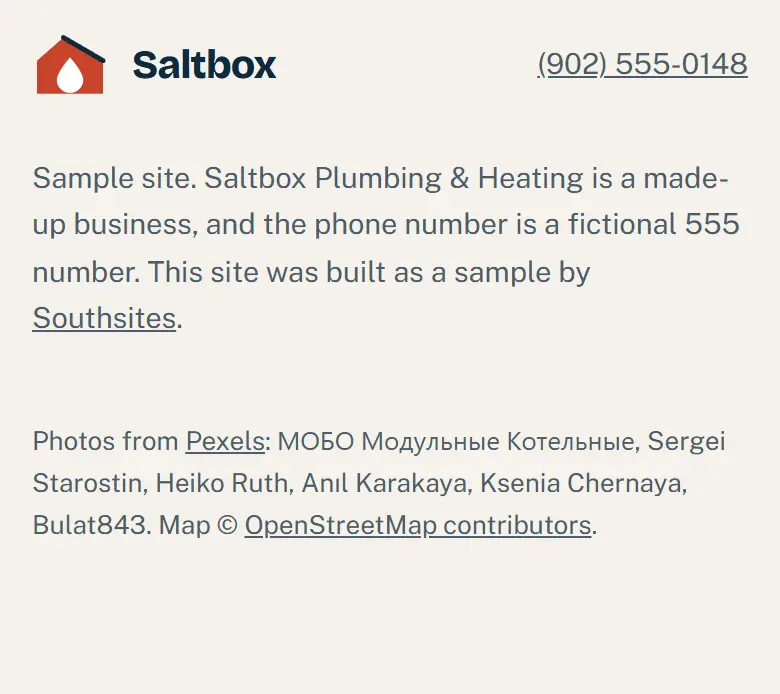
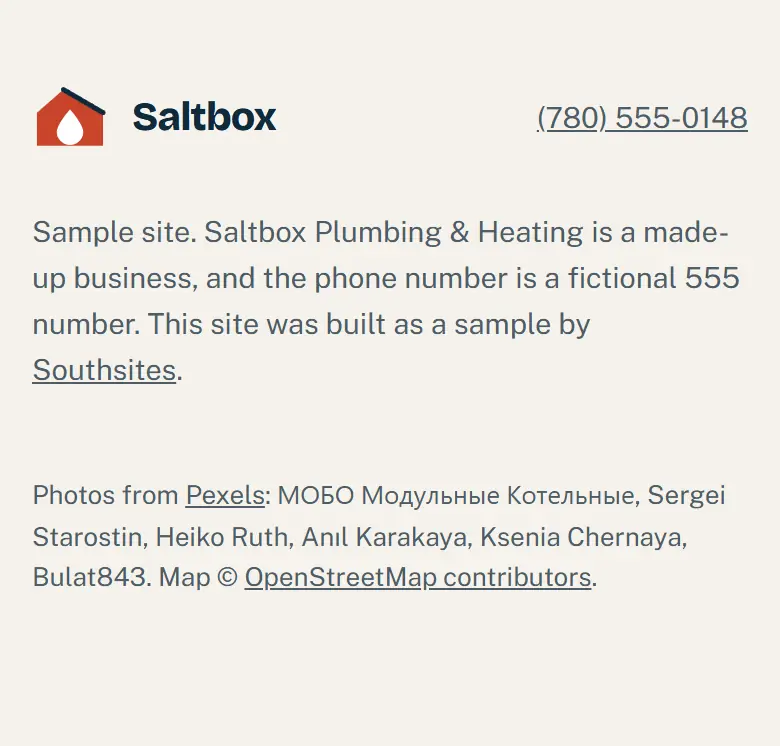
samples move to Edmonton: Saltbox Plumbing & Heating in Mill Woods (south Edmonton service areas, Edmonton map), Forno Lume on Whyte Ave in Old Strathcona, Mirrorline Detail Co. in Sherwood Park (road salt and the Henday, heated bays); fictional (780) 555 numbers; phone stills re-shot; the landing c

diff --git a/demos/saltbox-plumbing/index.html b/demos/saltbox-plumbing/index.html
@@ -3,8 +3,8 @@
 <head>
 <meta charset="utf-8">
 <meta name="viewport" content="width=device-width, initial-scale=1">
-<title>Saltbox Plumbing & Heating | Halifax plumbers (sample site by Southsites)</title>
-<meta name="description" content="Sample website by Southsites. Saltbox Plumbing & Heating is a made-up Halifax plumbing and heating company.">
+<title>Saltbox Plumbing & Heating | Edmonton plumbers (sample site by Southsites)</title>
+<meta name="description" content="Sample website by Southsites. Saltbox Plumbing & Heating is a made-up Edmonton plumbing and heating company.">
 <meta name="robots" content="noindex">
 <link rel="preconnect" href="https://fonts.googleapis.com">
 <link rel="preconnect" href="https://fonts.gstatic.com" crossorigin>
@@ -174,7 +174,7 @@
     </a>
     <nav class="links" aria-label="Main">
       <a href="#services">Services</a><a href="#areas">Areas</a><a href="#about">About</a>
-      <a class="btn btn-red" href="tel:+19025550148"><svg viewBox="0 0 24 24" fill="none" stroke="currentColor" stroke-width="2" stroke-linecap="round" stroke-linejoin="round" aria-hidden="true"><path d="M5 4h4l2 5-2.5 1.5a11 11 0 0 0 5 5L15 13l5 2v4a2 2 0 0 1-2 2A16 16 0 0 1 3 6a2 2 0 0 1 2-2"/></svg><span>(902) 555-0148</span></a>
+      <a class="btn btn-red" href="tel:+17805550148"><svg viewBox="0 0 24 24" fill="none" stroke="currentColor" stroke-width="2" stroke-linecap="round" stroke-linejoin="round" aria-hidden="true"><path d="M5 4h4l2 5-2.5 1.5a11 11 0 0 0 5 5L15 13l5 2v4a2 2 0 0 1-2 2A16 16 0 0 1 3 6a2 2 0 0 1 2-2"/></svg><span>(780) 555-0148</span></a>
     </nav>
   </div>
 </header>
@@ -183,9 +183,9 @@
 <section class="hero">
   <div class="wrap">
     <div>
-      <h1>Plumbing and heating for Halifax homes.</h1>
+      <h1>Plumbing and heating for Edmonton homes.</h1>
       <p class="lead">Leaks, no heat, no hot water. A plumber answers the phone, gives you a price before any work starts, and cleans up after.</p>
-      <div class="ctas"><a class="btn btn-red" href="tel:+19025550148">Call (902) 555-0148</a><a class="btn btn-line" href="#book">Book a visit</a></div>
+      <div class="ctas"><a class="btn btn-red" href="tel:+17805550148">Call (780) 555-0148</a><a class="btn btn-line" href="#book">Book a visit</a></div>
       <p class="open"><i aria-hidden="true"></i>Weekdays 7 am to 6 pm. Emergency line every night.</p>
     </div>
     <figure class="shot" style="margin:0"><img src="img/hero.webp" width="1800" height="1350" alt="A technician fitting the controls on a new wall-mounted boiler" fetchpriority="high"><figcaption>Boilers, furnaces and water heaters</figcaption></figure>
@@ -197,7 +197,7 @@
     <div>
       <h2 id="u-h">Water coming through the ceiling?</h2>
       <p>Do these three things first. They take two minutes and can save the floor.</p>
-      <a class="btn btn-red" href="tel:+19025550148">Call the emergency line</a>
+      <a class="btn btn-red" href="tel:+17805550148">Call the emergency line</a>
     </div>
     <ol>
       <li><div><b>Shut off the main valve</b><span>Usually where the water line comes through the basement wall, near the meter. Turn it clockwise until it stops.</span></div></li>
@@ -209,10 +209,10 @@
 
 <section class="block" id="services">
   <div class="wrap">
-    <div class="head"><h2>What we fix and install</h2><p>Older Halifax houses, new builds and everything between. Hot-water heat, forced air and heat pumps.</p></div>
+    <div class="head"><h2>What we fix and install</h2><p>Mill Woods bungalows, new builds and everything between. Forced air, boilers and in-floor heat.</p></div>
     <div class="services">
       <article class="svc"><img src="img/leak.webp" width="900" height="600" alt="Gloved hands tightening a pipe fitting" loading="lazy"><div><h3>Leaks and burst pipes</h3><p>Found, fixed and dried out. Frozen pipes thawed without opening more wall than we have to.</p></div></article>
-      <article class="svc"><img src="img/furnace.webp" width="900" height="600" alt="A technician testing the circulator pump on a boiler" loading="lazy"><div><h3>Furnaces and boilers</h3><p>No heat calls, yearly tune-ups and full replacements, oil, gas or electric.</p></div></article>
+      <article class="svc"><img src="img/furnace.webp" width="900" height="600" alt="A technician testing the circulator pump on a boiler" loading="lazy"><div><h3>Furnaces and boilers</h3><p>No heat calls, yearly tune-ups and full replacements, gas or electric.</p></div></article>
       <article class="svc"><img src="img/heater.webp" width="900" height="675" alt="Copper pipes and valves under a new water heater" loading="lazy"><div><h3>Water heaters</h3><p>Tank and tankless. We'll tell you honestly if yours can be repaired.</p></div></article>
       <article class="svc wide"><img src="img/pipes.webp" width="900" height="600" alt="Hands fitting a brass valve under a kitchen floor" loading="lazy"><div><h3>Kitchen and bathroom plumbing</h3><p>Renovation rough-ins, new fixtures, shut-off valves that actually shut off. We work with your contractor or on our own, and we leave the space cleaner than we found it.</p></div></article>
       <article class="svc"><img src="img/radiator.webp" width="800" height="1198" alt="A plumber bleeding a cast iron radiator under a window" loading="lazy"><div><h3>Radiators and hot-water heat</h3><p>Cold rooms, noisy pipes, bleeding and balancing.</p></div></article>
@@ -250,11 +250,11 @@
 
 <section class="block areas" id="areas">
   <div class="wrap">
-    <div class="map"><iframe title="Map of Halifax, Dartmouth and Bedford" loading="lazy" src="https://www.openstreetmap.org/export/embed.html?bbox=-63.78%2C44.58%2C-63.46%2C44.76&amp;layer=mapnik"></iframe><button class="map-use" type="button"><span>Move the map</span></button></div>
+    <div class="map"><iframe title="Map of south Edmonton" loading="lazy" src="https://www.openstreetmap.org/export/embed.html?bbox=-113.58%2C53.40%2C-113.30%2C53.53&amp;layer=mapnik"></iframe><button class="map-use" type="button"><span>Move the map</span></button></div>
     <div>
       <h2>Where we work</h2>
-      <p>Halifax and the towns around the harbour. Not sure if you're in? Call and ask.</p>
-      <ul class="chips"><li>Halifax peninsula</li><li>Clayton Park</li><li>Fairview</li><li>Spryfield</li><li>Dartmouth</li><li>Bedford</li><li>Sackville</li></ul>
+      <p>Mill Woods and the rest of south Edmonton, plus Sherwood Park. Not sure if you're in? Call and ask.</p>
+      <ul class="chips"><li>Mill Woods</li><li>The Meadows</li><li>Summerside</li><li>Ellerslie</li><li>Terwillegar</li><li>Windermere</li><li>Sherwood Park</li></ul>
       <table class="hours" aria-label="Opening hours">
         <tr><td>Monday to Friday</td><td>7 am to 6 pm</td></tr>
         <tr><td>Saturday</td><td>8 am to 2 pm</td></tr>
@@ -270,7 +270,7 @@
     <div>
       <h2>Book a visit</h2>
       <p>Tell us what's wrong and when suits you. We'll text back with a two-hour window. Something leaking right now? Call instead.</p>
-      <a class="call" href="tel:+19025550148">(902) 555-0148</a>
+      <a class="call" href="tel:+17805550148">(780) 555-0148</a>
     </div>
     <form id="f" novalidate>
       <div class="row2"><label>Your name<input name="name" autocomplete="name" required></label><label>Phone<input name="phone" type="tel" autocomplete="tel" required></label></div>
@@ -288,7 +288,7 @@
 
 <footer>
   <div class="wrap">
-    <div class="row"><a class="logo" href="#top"><svg viewBox="0 0 46 40" aria-hidden="true"><path d="M3 18 L19 4 L43 18 V38 H3 Z" fill="#c8442b"/><path d="M19 4 L43 18" stroke="#0f2a3d" stroke-width="3" fill="none" stroke-linecap="round"/><path d="M23 16 C23 16 15 25 15 29.5 A8 8 0 0 0 31 29.5 C31 25 23 16 23 16 Z" fill="#fff"/></svg><span><b>Saltbox</b><small>Plumbing &amp; Heating, Halifax, Nova Scotia</small></span></a><a href="tel:+19025550148">(902) 555-0148</a></div>
+    <div class="row"><a class="logo" href="#top"><svg viewBox="0 0 46 40" aria-hidden="true"><path d="M3 18 L19 4 L43 18 V38 H3 Z" fill="#c8442b"/><path d="M19 4 L43 18" stroke="#0f2a3d" stroke-width="3" fill="none" stroke-linecap="round"/><path d="M23 16 C23 16 15 25 15 29.5 A8 8 0 0 0 31 29.5 C31 25 23 16 23 16 Z" fill="#fff"/></svg><span><b>Saltbox</b><small>Plumbing &amp; Heating, Edmonton, Alberta</small></span></a><a href="tel:+17805550148">(780) 555-0148</a></div>
     <p>Sample site. Saltbox Plumbing &amp; Heating is a made-up business, and the phone number is a fictional 555 number. This site was built as a sample by <a href="/">Southsites</a>.</p>
     <p class="credits">Photos from <a href="https://www.pexels.com/license/">Pexels</a>: МОБО Модульные Котельные, Sergei Starostin, Heiko Ruth, Anıl Karakaya, Ksenia Chernaya, Bulat843. Map &copy; <a href="https://www.openstreetmap.org/copyright">OpenStreetMap contributors</a>.</p>
   </div>

diff --git a/demos/mirrorline-detail/index.html b/demos/mirrorline-detail/index.html
@@ -3,8 +3,8 @@
 <head>
 <meta charset="utf-8">
 <meta name="viewport" content="width=device-width, initial-scale=1">
-<title>Mirrorline Detail Co. | Car detailing in Scottsdale (sample site by Southsites)</title>
-<meta name="description" content="Sample website by Southsites. Mirrorline Detail Co. is a made-up car detailing shop in Scottsdale, Arizona.">
+<title>Mirrorline Detail Co. | Car detailing in Sherwood Park (sample site by Southsites)</title>
+<meta name="description" content="Sample website by Southsites. Mirrorline Detail Co. is a made-up car detailing shop in Sherwood Park, Alberta.">
 <meta name="robots" content="noindex">
 <link rel="preconnect" href="https://fonts.googleapis.com">
 <link rel="preconnect" href="https://fonts.gstatic.com" crossorigin>
@@ -179,7 +179,7 @@
       </div>
     </header>
     <div class="beats">
-      <div class="beat on" data-a="0" data-b="0.16"><small>Car detailing in Scottsdale, Arizona</small><h1>Bring it in like this.</h1><p>Desert dust, monsoon mud, a month of the 101. Scroll and watch it come off.</p></div>
+      <div class="beat on" data-a="0" data-b="0.16"><small>Car detailing in Sherwood Park, Alberta</small><h1>Bring it in like this.</h1><p>Road salt, spring mud, a month of the Henday. Scroll and watch it come off.</p></div>
       <div class="beat" data-a="0.2" data-b="0.4"><small>Step one</small><h2>Foam first.</h2><p>Thick foam soaks the grit loose before a mitt ever touches the paint.</p></div>
       <div class="beat" data-a="0.44" data-b="0.8"><small>Step two</small><h2>Rinse, top down.</h2><p>Soft water and low pressure, so the dirt slides off instead of scratching on its way out.</p></div>
       <div class="beat last" data-a="0.84" data-b="1.01"><small>Mirrorline finish</small><h2>Leave like this.</h2><p>Decontaminated, polished and sealed. Water beads and rolls right off.</p><a class="btn btn-ice" href="#book">Book a detail</a></div>
@@ -196,7 +196,7 @@
       <article class="pkg"><img src="img/beads.webp" width="800" height="1200" alt="Water beading on a black car hood next to the badge" loading="lazy"><div><h3>Wash and seal</h3><p>Foam, hand wash, wheels, glass and a spray sealant.</p><span class="price"><small>from </small>$89</span></div></article>
       <article class="pkg"><img src="img/interior.webp" width="1200" height="800" alt="A detailer cleaning the inside of a red car door" loading="lazy"><div><h3>Full detail</h3><p>Inside and out: vacuum, steam, leather, plastics, then the full wash.</p><span class="price"><small>from </small>$249</span></div></article>
       <article class="pkg"><img src="img/polish.webp" width="800" height="1422" alt="A detailer polishing a car panel with a machine polisher" loading="lazy"><div><h3>Paint correction</h3><p>Swirls and light scratches polished out under inspection lights.</p><span class="price"><small>from </small>$549</span></div></article>
-      <article class="pkg"><img src="img/coat.webp" width="800" height="1202" alt="A ceramic coating being dripped onto an applicator pad" loading="lazy"><div><h3>Ceramic coating</h3><p>A hard, slick layer that keeps the shine through Arizona summers.</p><span class="price"><small>from </small>$899</span></div></article>
+      <article class="pkg"><img src="img/coat.webp" width="800" height="1202" alt="A ceramic coating being dripped onto an applicator pad" loading="lazy"><div><h3>Ceramic coating</h3><p>A hard, slick layer that keeps the shine through road salt and Alberta winters.</p><span class="price"><small>from </small>$899</span></div></article>
     </div>
     <p class="note">Sample packages and prices for this concept site.</p>
   </div>
@@ -207,7 +207,7 @@
     <img src="img/foam.webp" width="1200" height="800" alt="A detailer working a foamed sponge over a side window" loading="lazy">
     <div>
       <h2>Done by hand, start to finish</h2>
-      <p>One car at a time in a shaded bay, by the same detailer from check-in to hand-back. You get photos of the before and the after.</p>
+      <p>One car at a time in a heated bay, by the same detailer from check-in to hand-back. You get photos of the before and the after.</p>
       <ul class="ticks">
         <li><svg viewBox="0 0 24 24" fill="none" stroke="currentColor" stroke-width="2.4" stroke-linecap="round" stroke-linejoin="round" aria-hidden="true"><path d="M5 13l4 4L19 7"/></svg>Drop off by 9, most cars back by 5</li>
         <li><svg viewBox="0 0 24 24" fill="none" stroke="currentColor" stroke-width="2.4" stroke-linecap="round" stroke-linejoin="round" aria-hidden="true"><path d="M5 13l4 4L19 7"/></svg>pH-neutral soaps, safe on coatings and wraps</li>
@@ -239,7 +239,7 @@
     <div>
       <h2>Book a detail</h2>
       <p>Tell us the car and the package. We'll text you a time that works.</p>
-      <a class="call" href="tel:+14805550127">(480) 555-0127</a>
+      <a class="call" href="tel:+17805550127">(780) 555-0127</a>
     </div>
     <form id="f" novalidate>
       <div class="row2"><label>Name<input name="name" autocomplete="name"></label><label>Phone<input name="phone" type="tel" autocomplete="tel"></label></div>
@@ -256,10 +256,10 @@
 
 <section class="block find" id="find">
   <div class="wrap">
-    <div class="map"><iframe title="Map of Scottsdale, Arizona" loading="lazy" src="https://www.openstreetmap.org/export/embed.html?bbox=-111.985%2C33.45%2C-111.855%2C33.53&amp;layer=mapnik"></iframe><button class="map-use" type="button"><span>Move the map</span></button></div>
+    <div class="map"><iframe title="Map of Sherwood Park, Alberta" loading="lazy" src="https://www.openstreetmap.org/export/embed.html?bbox=-113.37%2C53.50%2C-113.25%2C53.57&amp;layer=mapnik"></iframe><button class="map-use" type="button"><span>Move the map</span></button></div>
     <div>
       <h2>Find us</h2>
-      <p>In south Scottsdale, minutes from Old Town. Shaded bays, a cold drink while you wait, and a ride to work if you need one.</p>
+      <p>In Sherwood Park, minutes off the Henday. Heated bays, a hot coffee while you wait, and a ride to work if you need one.</p>
       <table class="hours" aria-label="Opening hours">
         <tr><td>Monday to Friday</td><td>8 am to 6 pm</td></tr>
         <tr><td>Saturday</td><td>8 am to 4 pm</td></tr>
@@ -272,7 +272,7 @@
 
 <footer>
   <div class="wrap">
-    <div class="row"><a class="mark" href="#wash"><b>MIRRORLINE</b><i aria-hidden="true"></i><small>Detail Co.</small></a><span>Scottsdale, Arizona &nbsp; <a href="tel:+14805550127">(480) 555-0127</a></span></div>
+    <div class="row"><a class="mark" href="#wash"><b>MIRRORLINE</b><i aria-hidden="true"></i><small>Detail Co.</small></a><span>Sherwood Park, Alberta &nbsp; <a href="tel:+17805550127">(780) 555-0127</a></span></div>
     <p>Sample site. Mirrorline Detail Co. is a made-up business, the packages and prices are samples, and the phone number is a fictional 555 number. Built as a sample by <a href="/">Southsites</a>.</p>
     <p class="credits">The wash at the top was made with AI from a photo by Tima Miroshnichenko: Google Gemini added the dirt, Google Veo animated the rinse. Other photos from <a href="https://www.pexels.com/license/">Pexels</a>: Tima Miroshnichenko, Bulat843, WAVYVISUALS, Caio Renato de Campos, Malcolm Garret, Luis Quintero. Map &copy; <a href="https://www.openstreetmap.org/copyright">OpenStreetMap contributors</a>.</p>
   </div>

diff --git a/demos/forno-lume/index.html b/demos/forno-lume/index.html
@@ -3,8 +3,8 @@
 <head>
 <meta charset="utf-8">
 <meta name="viewport" content="width=device-width, initial-scale=1">
-<title>Forno Lume | Wood-fired pizza and fresh pasta, Providence (sample site by Southsites)</title>
-<meta name="description" content="Sample website by Southsites. Forno Lume is a made-up pizza and pasta restaurant on Federal Hill in Providence.">
+<title>Forno Lume | Wood-fired pizza and fresh pasta, Edmonton (sample site by Southsites)</title>
+<meta name="description" content="Sample website by Southsites. Forno Lume is a made-up pizza and pasta restaurant on Whyte Ave in Edmonton.">
 <meta name="robots" content="noindex">
 <link rel="preconnect" href="https://fonts.googleapis.com">
 <link rel="preconnect" href="https://fonts.gstatic.com" crossorigin>
@@ -168,7 +168,7 @@
 <section class="hero">
   <img src="img/hero.webp" width="1800" height="1202" alt="A chef dressing a pizza with olive oil before it goes in the oven" fetchpriority="high">
   <div class="wrap">
-    <h1>Wood‑fired pizza and fresh pasta on <em>Federal Hill.</em></h1>
+    <h1>Wood‑fired pizza and fresh pasta on <em>Whyte Ave.</em></h1>
     <p>The oven is lit by four. Dinner from five, Tuesday to Sunday, with a few seats at the bar kept for walk-ins.</p>
     <div class="ctas"><a class="btn btn-red" href="#reserve">Reserve a table</a><a class="btn btn-line" href="#menu">See the menu</a></div>
     <p class="tonight"><i aria-hidden="true"></i>Open tonight from 5 pm</p>
@@ -245,10 +245,10 @@
 
 <section class="block visit" id="visit">
   <div class="wrap">
-    <div class="map"><iframe title="Map of Federal Hill, Providence" loading="lazy" src="https://www.openstreetmap.org/export/embed.html?bbox=-71.4405%2C41.8135%2C-71.4105%2C41.8305&amp;layer=mapnik"></iframe><button class="map-use" type="button"><span>Move the map</span></button></div>
+    <div class="map"><iframe title="Map of Whyte Ave, Edmonton" loading="lazy" src="https://www.openstreetmap.org/export/embed.html?bbox=-113.5320%2C53.5040%2C-113.4820%2C53.5240&amp;layer=mapnik"></iframe><button class="map-use" type="button"><span>Move the map</span></button></div>
     <div>
       <h2>Visit</h2>
-      <p>On Federal Hill in Providence, a short walk from downtown. Street parking after six, and a lot two blocks up.</p>
+      <p>On Whyte Ave in Old Strathcona, across the river from downtown. Street parking after six, and a lot a block south.</p>
       <table class="hours">
         <tr><td>Tuesday to Thursday</td><td>5 pm to 10 pm</td></tr>
         <tr><td>Friday and Saturday</td><td>5 pm to 11 pm</td></tr>
@@ -265,7 +265,7 @@
     <div>
       <h2>Reserve a <em>table</em></h2>
       <p>Book up to thirty days ahead. For six or more, call us and we'll set up the long table.</p>
-      <a class="call" href="tel:+14015550163">(401) 555-0163</a>
+      <a class="call" href="tel:+17805550163">(780) 555-0163</a>
     </div>
     <form id="f" novalidate>
       <div class="row3">
@@ -283,7 +283,7 @@
 
 <footer>
   <div class="wrap">
-    <div class="row"><span class="logo" style="font-size:24px"><svg viewBox="0 0 30 30" aria-hidden="true"><circle cx="15" cy="15" r="14" fill="#e04b2f"/><path d="M15 6c3 4 6 6.5 6 10.5a6 6 0 0 1-12 0c0-2.4 1.3-4 2.6-5.3.3 1.9 1.3 3 2.4 3.3C13.4 11.8 14 9 15 6z" fill="#f4ece0"/></svg>Forno Lume</span><span>Federal Hill, Providence, Rhode Island &nbsp; <a href="tel:+14015550163">(401) 555-0163</a></span></div>
+    <div class="row"><span class="logo" style="font-size:24px"><svg viewBox="0 0 30 30" aria-hidden="true"><circle cx="15" cy="15" r="14" fill="#e04b2f"/><path d="M15 6c3 4 6 6.5 6 10.5a6 6 0 0 1-12 0c0-2.4 1.3-4 2.6-5.3.3 1.9 1.3 3 2.4 3.3C13.4 11.8 14 9 15 6z" fill="#f4ece0"/></svg>Forno Lume</span><span>Whyte Ave, Edmonton, Alberta &nbsp; <a href="tel:+17805550163">(780) 555-0163</a></span></div>
     <p>Sample site. Forno Lume is a made-up restaurant, the menu and prices are samples, and the phone number is a fictional 555 number. Built as a sample by <a href="/">Southsites</a>.</p>
     <p class="credits">Photos from <a href="https://www.pexels.com/license/">Pexels</a>: Kampus Production, Canan Ataklı, Gustavo Fring, Derwin Edwards, Samuel Nuñez, Cihan Yüce, Oscar Ruiz. Map &copy; <a href="https://www.openstreetmap.org/copyright">OpenStreetMap contributors</a>.</p>
   </div>
